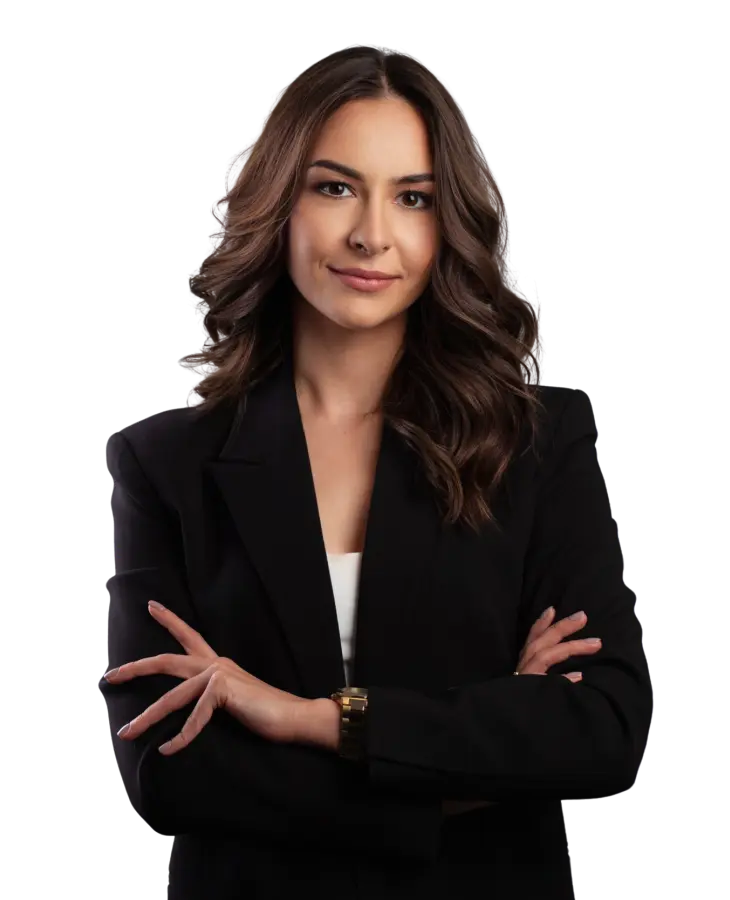
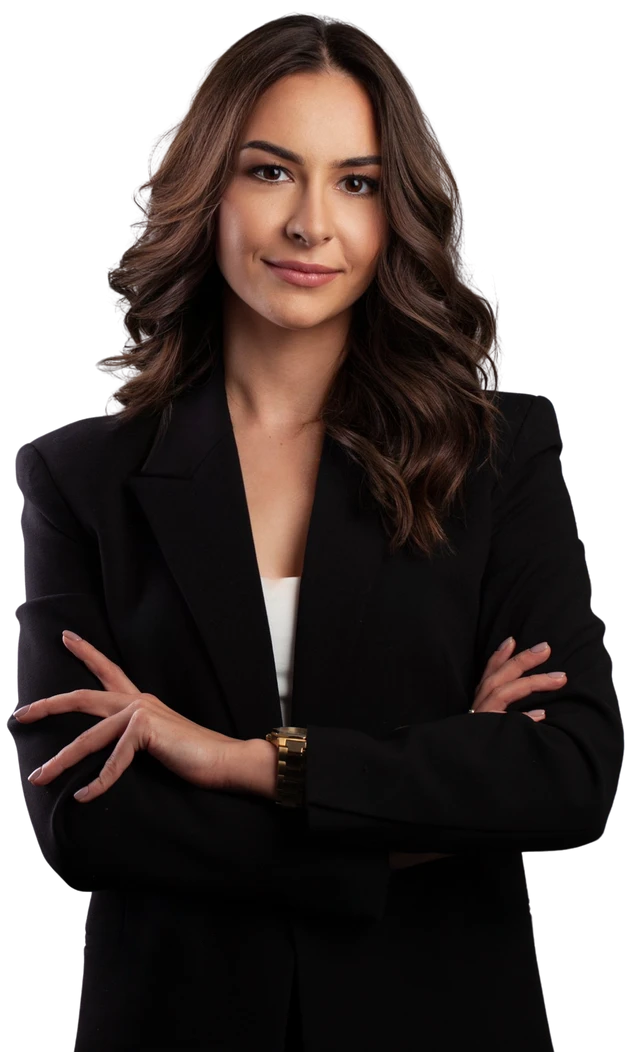
fix

diff --git a/src/app/about-me/about-me.component.html b/src/app/about-me/about-me.component.html
@@ -1,7 +1,7 @@
  <div class="container-fluid g-0"> 
   <div class="container">
     <div class="row pt-4 px-5 px-lg-0 d-flex justify-content-center">
-      <div class="col col-lg-5 col-12 d-flex justify-content-center">
+      <div class="col col-lg-4 col-10 d-flex justify-content-center align-items-end">
         <img src="about-me/portrait.webp" class="portrait" alt="portrait">
       </div>
       <div class="col col-lg-7 col-md-10 py-5 pe-0 pe-sm-5">

diff --git a/src/styles.scss b/src/styles.scss
@@ -3,6 +3,7 @@
 
 * {
   font-family: "Libre Franklin", sans-serif;
+  // outline: 1px solid red; 
 }
 
 html {

diff --git a/src/app/about-me/about-me.component.scss b/src/app/about-me/about-me.component.scss
@@ -5,7 +5,7 @@
 
 .portrait {
   width: 100%;
-  height: auto;
+  object-fit: contain;
 }
 
 .line {
